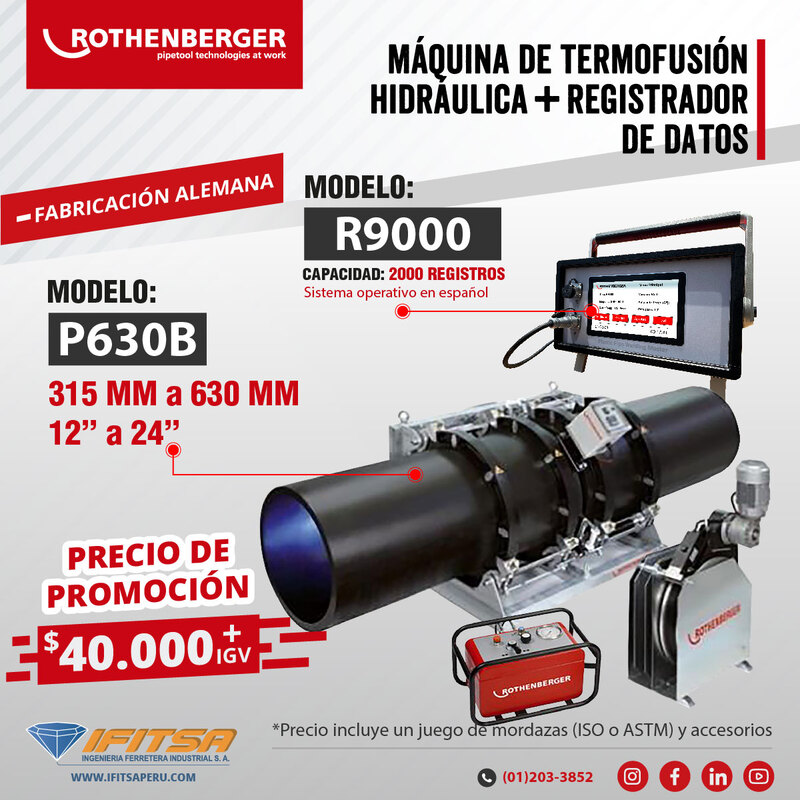
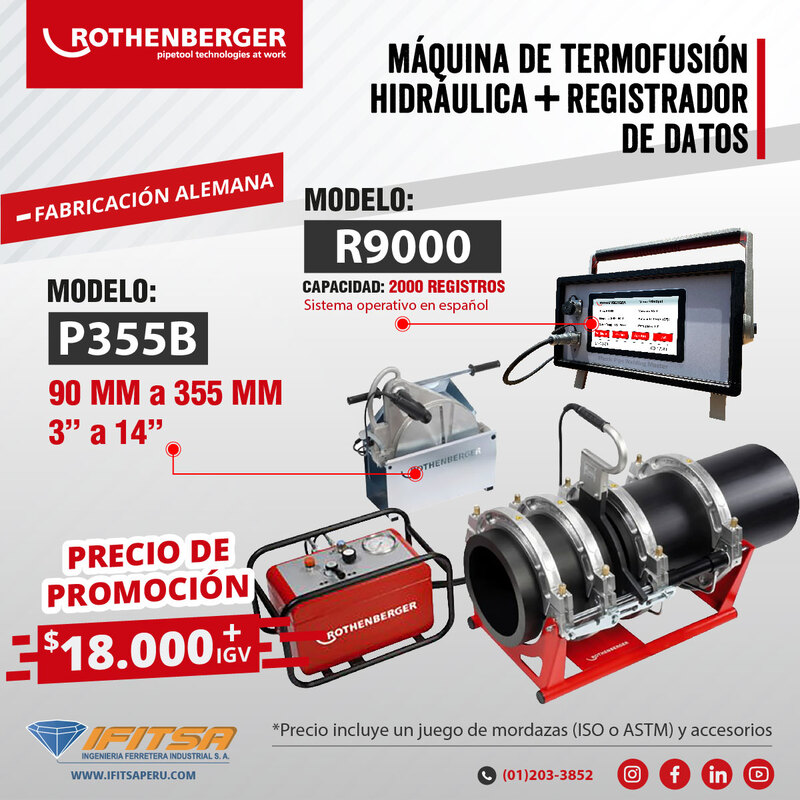
se añadio un bueno pop-up

diff --git a/equipos_e_instrumentos_para_montaje_electrico.html b/equipos_e_instrumentos_para_montaje_electrico.html
@@ -165,7 +165,7 @@
 						<p>ARJA fabrica equipos para la industria del chancado. Ofrecemos un servicio integral que va desde la concepción y asesoramiento técnico hasta la puesta en marcha de cada proyecto. ARJA dispone de una gama completa de productos para proveer de soluciones personalizadas con la mayor calidad del mercado. La tecnología y las innovaciones nos hacen referencia en el sector del chancado. Estamos presentes en más de 30 países.</p>
 						<!-- <p>Es la principal compa&ntilde;&iacute;a a nivel mundial especializada en fabricaci&oacute;n de maquinas y equipos para el montaje y mantenimiento el&eacute;ctrico industrial, telefon&iacute;a y comunicaciones.</p> -->
 						<p>
-                Las trituradoras de impacto de alta calidad ARJA son fabricadas con los mejores materiales y componentes existentes en el mercado al día de hoy. Los aspectos destacados de una trituradora de impacto ARJA en comparación al cono:
+                Chancadora de alta calidad ARJA son fabricadas con los mejores materiales y componentes existentes en el mercado al día de hoy. <br> Los aspectos destacados de una chancadora de impacto ARJA en comparación al cono:
               </p>
             <div class="disc">
 						<ul>

diff --git a/index.html b/index.html
@@ -1,6 +1,5 @@
 <!DOCTYPE html>
 <html lang="es">
-
 <head>
   <meta charset="utf-8">
   <meta http-equiv="X-UA-Compatible" content="IE=edge">
@@ -63,7 +62,6 @@
   <!-- SCROLL TOP BUTTON -->
   <a class="scrollToTop" href="#"><i class="fa fa-chevron-up"></i></a>
   <!-- END SCROLL TOP BUTTON -->
-
   <!-- Start header section -->
   <header class="aa-header">
     <!-- start header top  -->
@@ -252,6 +250,12 @@
               src="images/pop-up/pop-up-7.jpg" />
           </a>
         </div>
+        <div class="blogSlides fade">
+          <a target="_blank"
+            href="https://web.whatsapp.com/send?phone=51980302293&text=Hola,%20vengo%20de%20la%20web%20www.ifitsaperu.com,%20me%20gustaría%20tener%20mayor%20información+sobre..."><img
+              src="images/pop-up/pop-up-8.jpg" />
+          </a>
+        </div>
 
         <a class="prev" onclick="plusSlides(-1)">&#10094;</a>
         <a class="next" onclick="plusSlides(1)">&#10095;</a>
@@ -350,9 +354,7 @@
       </div>
     </section>
     <!-- / slider -->
-
   </div>
-
   <!-- Support section -->
   <div class="aa-support">
     <div class="container">
